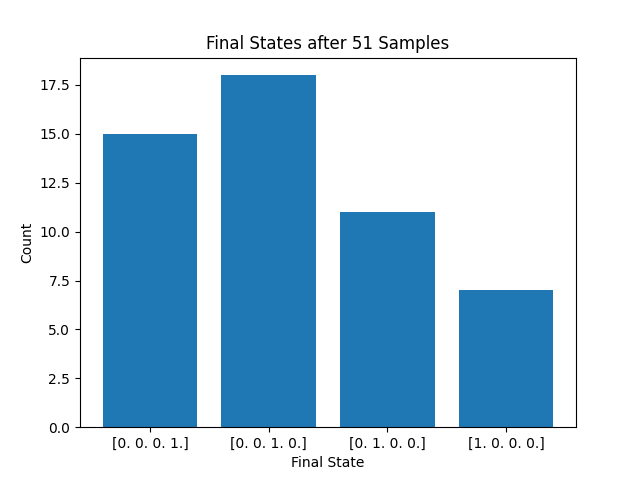
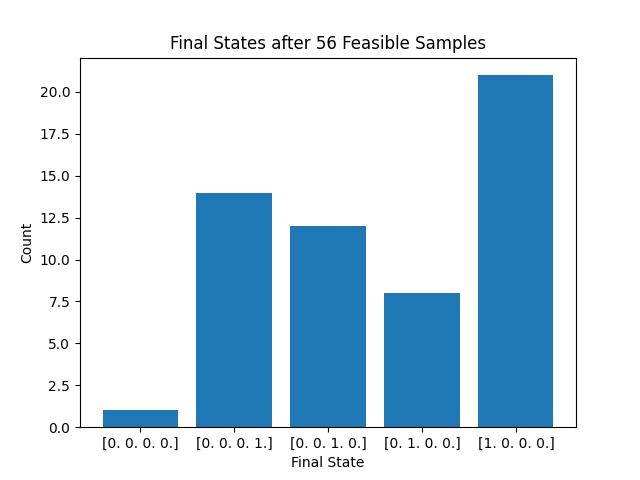
ran hybrid cqm sampler for 100 seconds. unsure why 0000 state was considered valid

diff --git a/QuantumWalk/quantWalk.py b/QuantumWalk/quantWalk.py
@@ -71,7 +71,7 @@ results_count = Counter(results)
 plt.bar(results_count.keys(), results_count.values())
 plt.xlabel("Final State")
 plt.ylabel("Count")
-plt.title(f"Final States after {num_feasible} Samples")
+plt.title(f"Final States after {num_feasible} Feasible Samples")
 plt.xticks(rotation=0)
 plt.savefig('/workspace/QuantumCognition/fig3')
 
